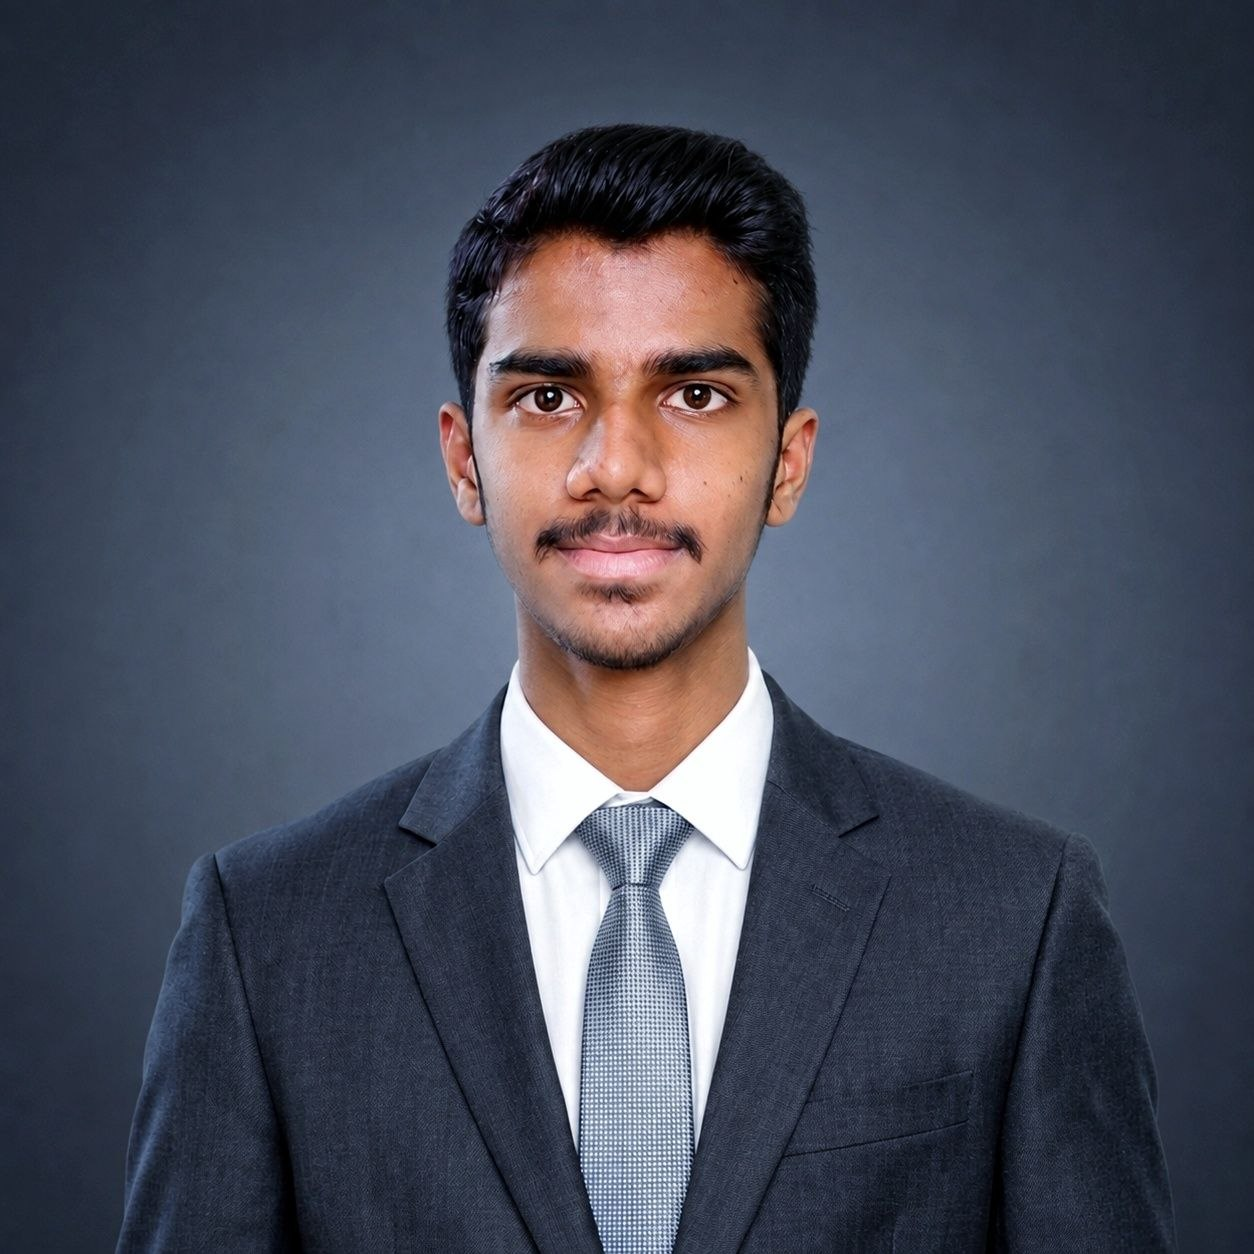
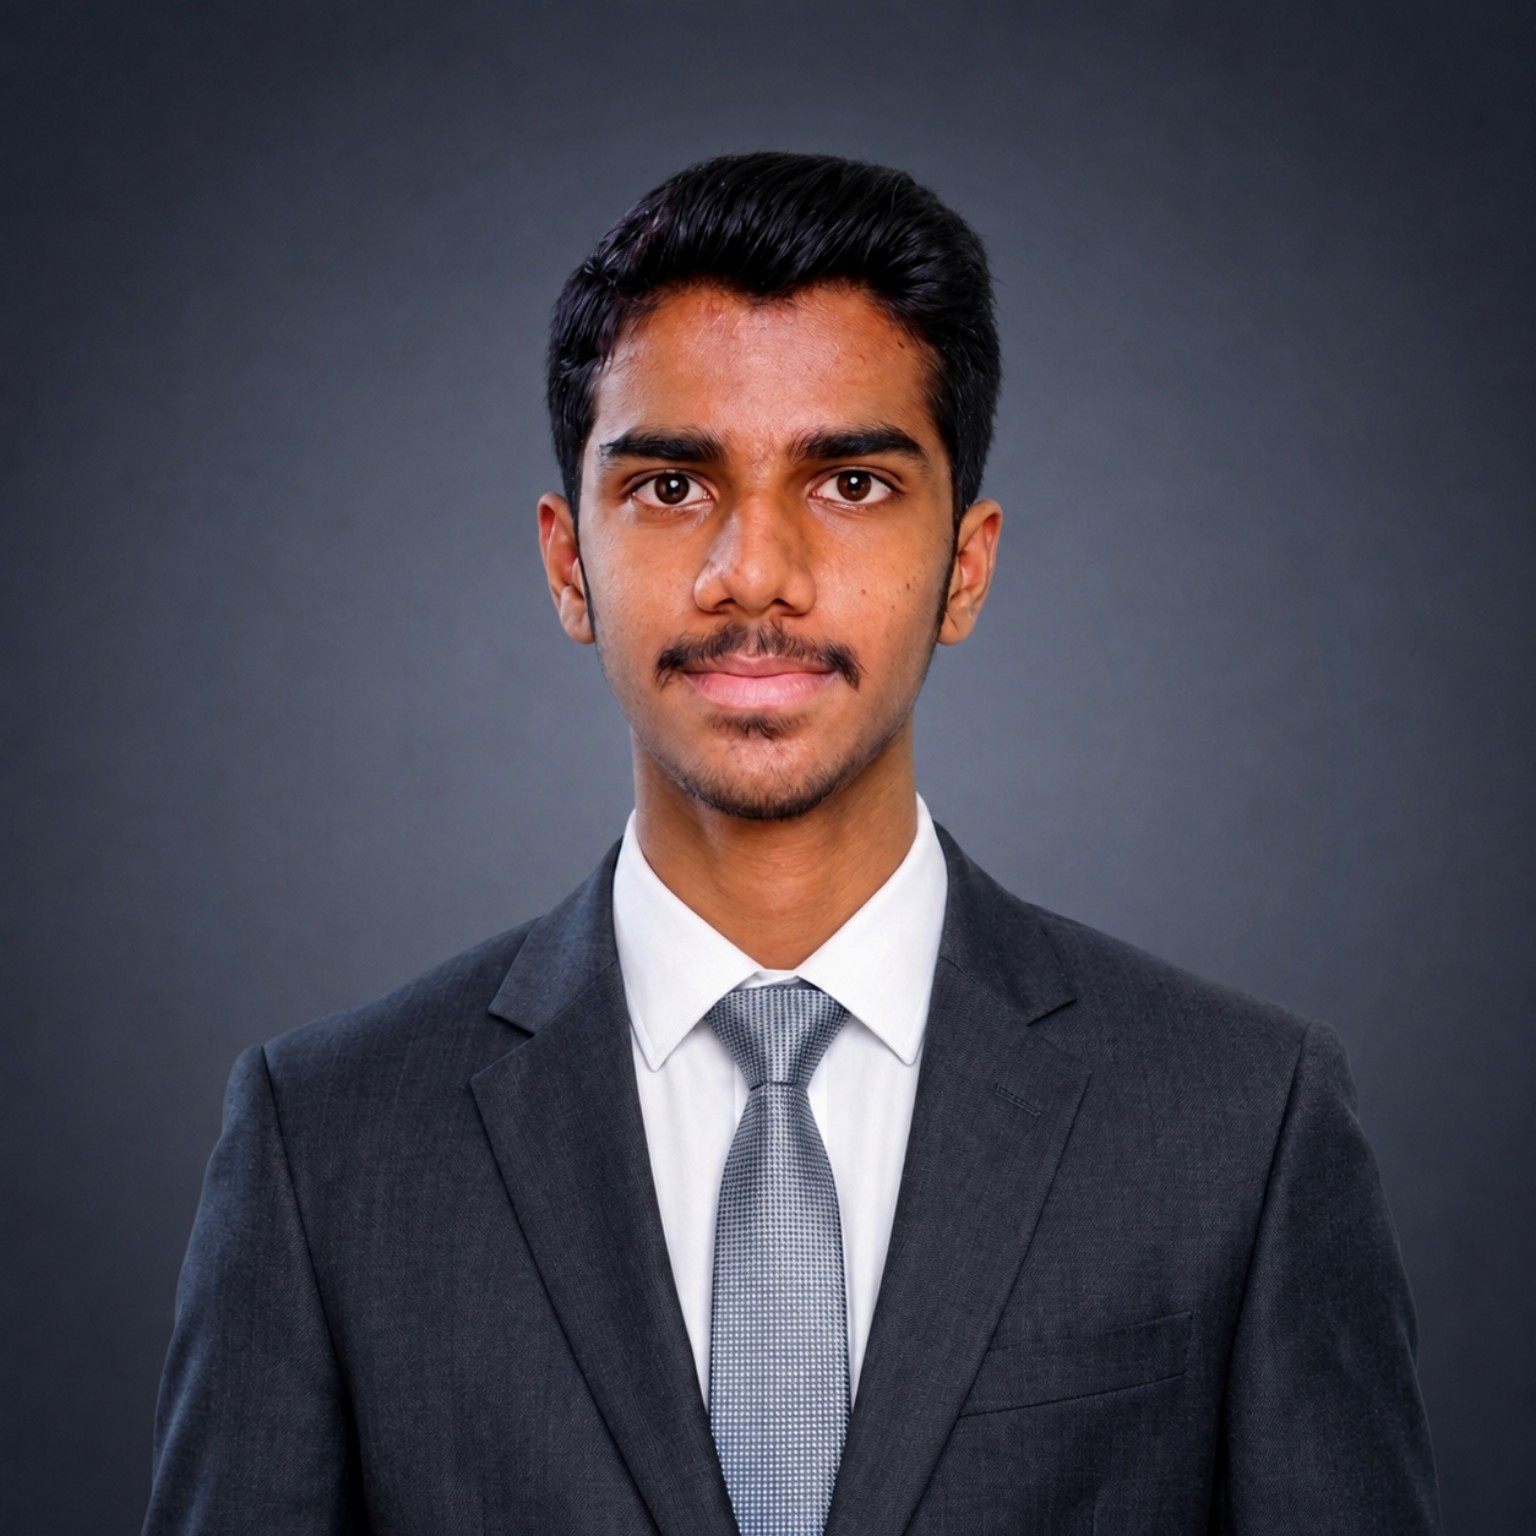
update portfolio

Changed region(s): [[0.3421, 0.1866, 0.6531, 1.0], [0.4043, 0.5287, 0.4354, 0.5598]]

diff --git a/css/style.css b/css/style.css
@@ -379,18 +379,6 @@ textarea:focus-visible {
 @media (max-width: 980px) {
   .hero-grid { grid-template-columns: 1fr; gap: 48px; }
   .hero-visual { order: -1; display: flex; justify-content: center; }
-
-  /* Stacked mobile/tablet layout is taller than the viewport, so the
-     desktop `align-items: center` + `min-height: 100vh` combo overflows
-     upward and drags the profile picture up under the fixed navbar.
-     Switch to top-aligned, auto-height flow with real breathing room
-     under the navbar instead. */
-  .hero {
-    align-items: flex-start;
-    min-height: auto;
-    padding-top: calc(var(--nav-height) + 28px);
-    padding-bottom: 48px;
-  }
 }
 
 .hero-eyebrow {
@@ -411,13 +399,11 @@ textarea:focus-visible {
 }
 
 .hero-name {
-  font-size: clamp(32px, 8vw, 64px);
+  font-size: clamp(38px, 6vw, 64px);
   font-weight: 800;
   letter-spacing: -0.03em;
   line-height: 1.05;
   margin: 0 0 6px;
-  white-space: normal;
-  overflow-wrap: break-word;
 }
 .hero-username {
   font-family: var(--font-mono);
@@ -651,7 +637,7 @@ textarea:focus-visible {
 /* ---------- Skills ---------- */
 .skills-grid {
   display: grid;
-  grid-template-columns: repeat(auto-fit, minmax(min(220px, 100%), 1fr));
+  grid-template-columns: repeat(auto-fit, minmax(220px, 1fr));
   gap: 20px;
 }
 .skill-card {
@@ -709,7 +695,7 @@ textarea:focus-visible {
 /* ---------- Projects ---------- */
 .projects-grid {
   display: grid;
-  grid-template-columns: repeat(auto-fit, minmax(min(320px, 100%), 1fr));
+  grid-template-columns: repeat(auto-fit, minmax(320px, 1fr));
   gap: 28px;
 }
 .project-card {
@@ -905,18 +891,6 @@ textarea:focus-visible {
 .cert-card.is-placeholder .cert-card-inner { border-style: dashed; opacity: 0.9; }
 .cert-card.is-placeholder .cert-body h3 { color: var(--text-secondary); }
 
-/* Phones: keep the same auto-scrolling marquee as desktop, just with a
-   narrower edge fade so it doesn't eat into the smaller cards, and a
-   touch-friendly pause (handled in main.js) so people can still tap
-   into a card's links mid-scroll. */
-@media (max-width: 600px) {
-  .cert-marquee {
-    -webkit-mask-image: linear-gradient(90deg, transparent 0, #000 20px, #000 calc(100% - 20px), transparent 100%);
-    mask-image: linear-gradient(90deg, transparent 0, #000 20px, #000 calc(100% - 20px), transparent 100%);
-  }
-  .cert-track { gap: 20px; animation-duration: 30s; }
-}
-
 @media (prefers-reduced-motion: reduce) {
   .cert-card-inner { transform: none !important; transition: none !important; }
   .cert-ribbon { animation: none; }
@@ -927,7 +901,7 @@ textarea:focus-visible {
 /* ---------- GitHub ---------- */
 .github-grid {
   display: grid;
-  grid-template-columns: repeat(auto-fit, minmax(min(180px, 100%), 1fr));
+  grid-template-columns: repeat(auto-fit, minmax(180px, 1fr));
   gap: 20px;
   margin-bottom: 32px;
 }
@@ -968,6 +942,23 @@ textarea:focus-visible {
 .contrib-card-head h3 { margin: 0; font-size: 16px; }
 .contrib-legend { display: flex; align-items: center; gap: 6px; font-size: 12px; color: var(--text-secondary); }
 .contrib-legend .box { width: 11px; height: 11px; border-radius: 3px; }
+.contrib-graph {
+  display: grid;
+  grid-template-columns: repeat(52, 1fr);
+  gap: 3px;
+  overflow-x: auto;
+  padding-bottom: 6px;
+}
+.contrib-graph .cell {
+  aspect-ratio: 1;
+  border-radius: 2px;
+  background: rgba(139,148,158,0.08);
+}
+.contrib-graph .cell[data-level="1"] { background: rgba(88,166,255,0.25); }
+.contrib-graph .cell[data-level="2"] { background: rgba(88,166,255,0.5); }
+.contrib-graph .cell[data-level="3"] { background: rgba(0,229,255,0.7); }
+.contrib-graph .cell[data-level="4"] { background: var(--accent-2); box-shadow: 0 0 6px rgba(0,229,255,0.5); }
+@media (max-width: 700px) { .contrib-graph { grid-template-columns: repeat(26, 1fr); } }
 
 .github-cta { display: flex; justify-content: center; margin-top: 28px; }
 
@@ -977,7 +968,7 @@ textarea:focus-visible {
 /* ---------- Contact ---------- */
 .contact-grid {
   display: grid;
-  grid-template-columns: repeat(auto-fit, minmax(min(240px, 100%), 1fr));
+  grid-template-columns: repeat(auto-fit, minmax(240px, 1fr));
   gap: 22px;
 }
 .contact-card {
@@ -1128,40 +1119,18 @@ textarea:focus-visible {
   :root { --page-margin-phone: min(1cm, 6vw); }
 
   .container {
-    padding-left: max(18px, var(--page-margin-phone), env(safe-area-inset-left));
-    padding-right: max(18px, var(--page-margin-phone), env(safe-area-inset-right));
+    padding-left: max(18px, var(--page-margin-phone));
+    padding-right: max(18px, var(--page-margin-phone));
   }
 
-  .navbar {
-    top: max(12px, var(--page-margin-phone), env(safe-area-inset-top));
-    width: min(920px, calc(100% - 32px - env(safe-area-inset-left) - env(safe-area-inset-right)));
-  }
+  .navbar { top: max(12px, var(--page-margin-phone)); }
 
   .back-to-top {
-    bottom: max(16px, var(--page-margin-phone), env(safe-area-inset-bottom));
-    right: max(16px, var(--page-margin-phone), env(safe-area-inset-right));
+    bottom: max(16px, var(--page-margin-phone));
+    right: max(16px, var(--page-margin-phone));
   }
 
   .skip-link { left: max(12px, var(--page-margin-phone)); }
   .skip-link:focus { top: var(--page-margin-phone); }
-}
-
-/* ---------- Extra-small phones (older/budget devices, folded foldables) ---------- */
-@media (max-width: 360px) {
-  .hero-name { font-size: clamp(28px, 9vw, 40px); }
-  .hero-meta { gap: 16px; row-gap: 14px; }
-  .hero-meta-item strong { font-size: 18px; }
-  .avatar-ring { width: 168px; height: 168px; }
-  .section-title { font-size: clamp(24px, 7vw, 32px); }
-  .cert-card { width: min(300px, 86vw); }
-  .cert-body, .about-card { padding: 20px; }
-  .btn { padding: 12px 20px; font-size: 14px; }
-}
-
-/* ---------- Landscape phones (short viewport height) ---------- */
-@media (max-height: 480px) and (orientation: landscape) {
-  .hero { min-height: auto; padding-top: calc(var(--nav-height) + 24px); padding-bottom: 40px; }
-  .hero-visual { display: none; }
-  .scroll-indicator { display: none; }
 }
 

diff --git a/index.html b/index.html
@@ -2,7 +2,7 @@
 <html lang="en">
 <head>
   <meta charset="UTF-8" />
-  <meta name="viewport" content="width=device-width, initial-scale=1.0, viewport-fit=cover" />
+  <meta name="viewport" content="width=device-width, initial-scale=1.0" />
   <title>0xAbhi13 | Abhishek Jadhav — Developer Portfolio</title>
   <meta name="description" content="Portfolio of Abhishek Jadhav (0xAbhi13) — BCA student and aspiring software developer from Baramati, Maharashtra. Explore projects, source code, and skills in C++, Python and JavaScript." />
   <meta name="author" content="Abhishek Jadhav" />
@@ -20,18 +20,14 @@
   <meta property="og:title" content="0xAbhi13 | Abhishek Jadhav — Developer Portfolio" />
   <meta property="og:description" content="Portfolio of Abhishek Jadhav (0xAbhi13) — BCA student and aspiring software developer building real-world projects with C++, Python and JavaScript." />
   <meta property="og:url" content="https://0xabhi13.github.io/MyPortfolio/" />
-  <meta property="og:image" content="https://0xabhi13.github.io/MyPortfolio/assets/og-banner.png" />
-  <meta property="og:image:width" content="1200" />
-  <meta property="og:image:height" content="630" />
-  <meta property="og:image:alt" content="Abhishek Jadhav (0xAbhi13) — Aspiring Software Developer, BCA Student" />
+  <meta property="og:image" content="https://0xabhi13.github.io/MyPortfolio/assets/profile.jpg" />
   <meta property="og:locale" content="en_US" />
 
   <!-- Twitter -->
-  <meta name="twitter:card" content="summary_large_image" />
+  <meta name="twitter:card" content="summary" />
   <meta name="twitter:title" content="0xAbhi13 | Abhishek Jadhav — Developer Portfolio" />
   <meta name="twitter:description" content="Portfolio of Abhishek Jadhav (0xAbhi13) — projects, skills and source code in C++, Python and JavaScript." />
-  <meta name="twitter:image" content="https://0xabhi13.github.io/MyPortfolio/assets/og-banner.png" />
-  <meta name="twitter:image:alt" content="Abhishek Jadhav (0xAbhi13) — Aspiring Software Developer, BCA Student" />
+  <meta name="twitter:image" content="https://0xabhi13.github.io/MyPortfolio/assets/profile.jpg" />
 
   <link rel="icon" href="assets/favicon.svg" type="image/svg+xml" />
   <link rel="mask-icon" href="assets/favicon.svg" color="#58A6FF" />
@@ -140,7 +136,7 @@
         <div class="hero-content">
           <div class="hero-eyebrow"><span class="dot" aria-hidden="true"></span> available for internships &amp; junior roles</div>
 
-          <h1 class="hero-name">Abhishek Jadhav</h1>
+          <h1 class="hero-name" style="white-space: nowrap;">Abhishek Jadhav</h1>
           <p class="hero-username"><span class="at">@</span>0xAbhi13</p>
 
           <p class="hero-typing-wrap" aria-live="polite">
@@ -488,7 +484,8 @@
       </div>
     </section>
 
-    <!-- ============ GitHub Activity ============ -->
+  
+
     <!-- ============ Education ============ -->
     <section id="education">
       <div class="container section-inner">

diff --git a/js/main.js b/js/main.js
@@ -275,8 +275,7 @@
 
     // Duplicate the cards once so the track can loop from 0 -> -50%
     // without a visible jump. Runs before CertTilt below queries
-    // [data-tilt], so the clones get tilt + shine too. Runs on every
-    // device — the marquee auto-scrolls on phone and PC alike.
+    // [data-tilt], so the clones get tilt + shine too.
     const originalCards = Array.from(track.children);
     originalCards.forEach((card) => {
       const clone = card.cloneNode(true);
@@ -413,7 +412,39 @@
   };
 
   /* ------------------------------------------------------------------
-     11. Footer year
+     11. GitHub contribution graph (illustrative placeholder data)
+     Deterministic pseudo-random so the pattern looks intentional,
+     not actually pulled from the GitHub API (no backend in this project).
+  ------------------------------------------------------------------ */
+  const ContributionGraph = {
+    el: document.getElementById('contrib-graph'),
+    init() {
+      if (!this.el) return;
+      const totalCells = 52 * 7;
+      let seed = 42;
+      const rand = () => {
+        seed = (seed * 9301 + 49297) % 233280;
+        return seed / 233280;
+      };
+      const frag = document.createDocumentFragment();
+      for (let i = 0; i < totalCells; i++) {
+        const cell = document.createElement('div');
+        cell.className = 'cell';
+        const roll = rand();
+        let level = 0;
+        if (roll > 0.55) level = 1;
+        if (roll > 0.72) level = 2;
+        if (roll > 0.86) level = 3;
+        if (roll > 0.95) level = 4;
+        cell.setAttribute('data-level', String(level));
+        frag.appendChild(cell);
+      }
+      this.el.appendChild(frag);
+    }
+  };
+
+  /* ------------------------------------------------------------------
+     12. Footer year
   ------------------------------------------------------------------ */
   const FooterYear = {
     init() {
@@ -438,6 +469,7 @@
     CertTilt.init();
     Navigation.init();
     BackToTop.init();
+    ContributionGraph.init();
     FooterYear.init();
   });
 })();
